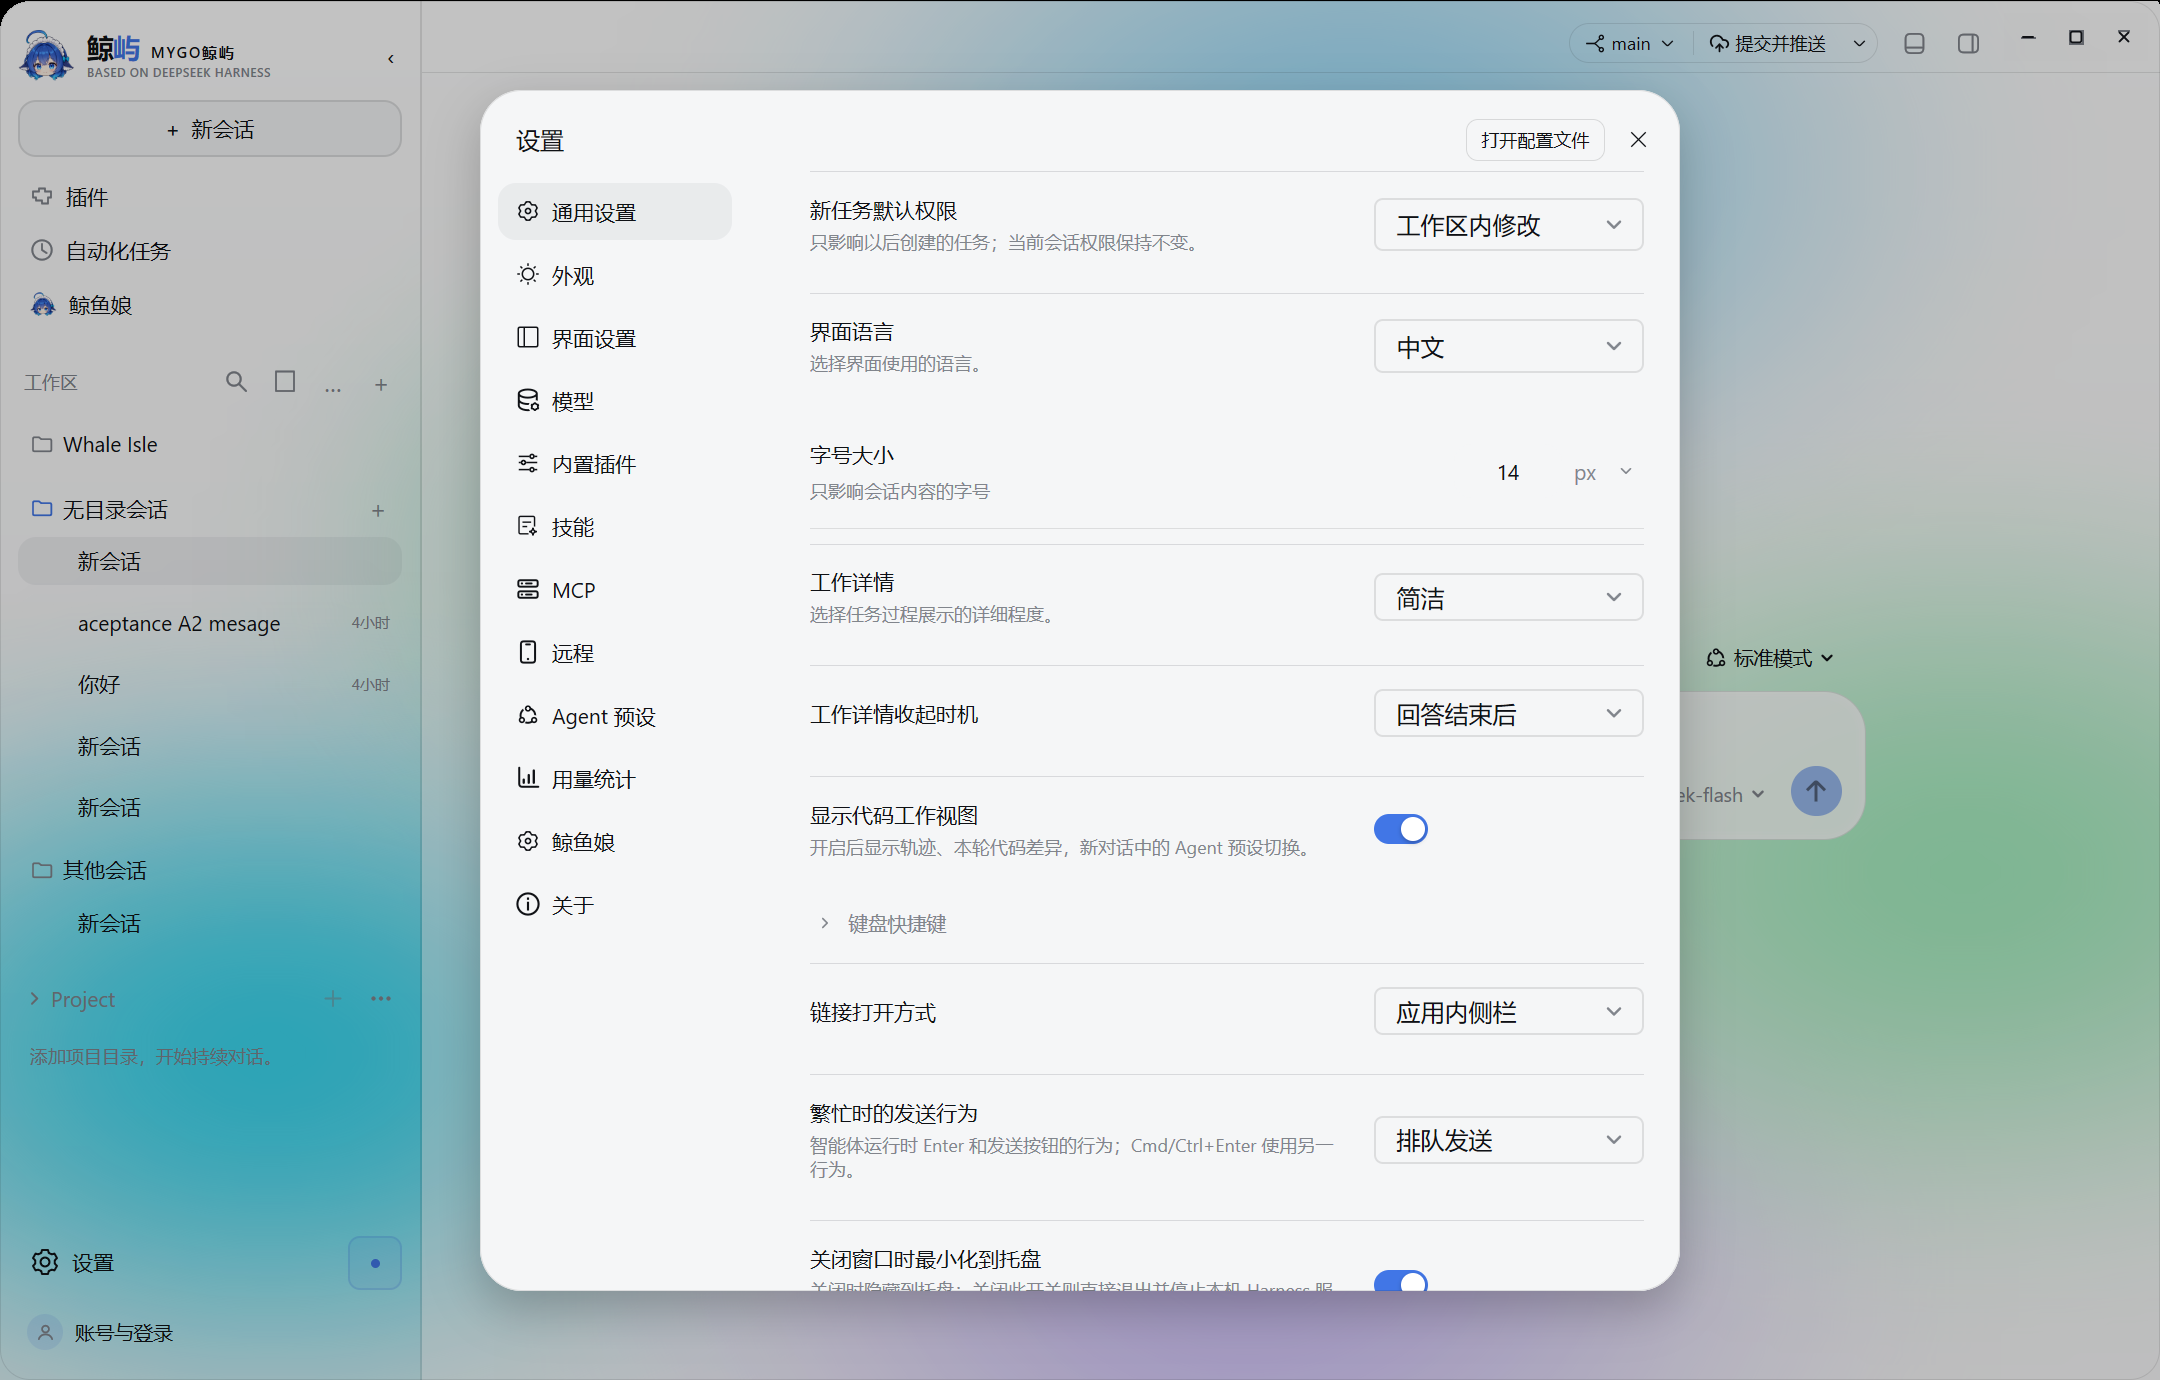
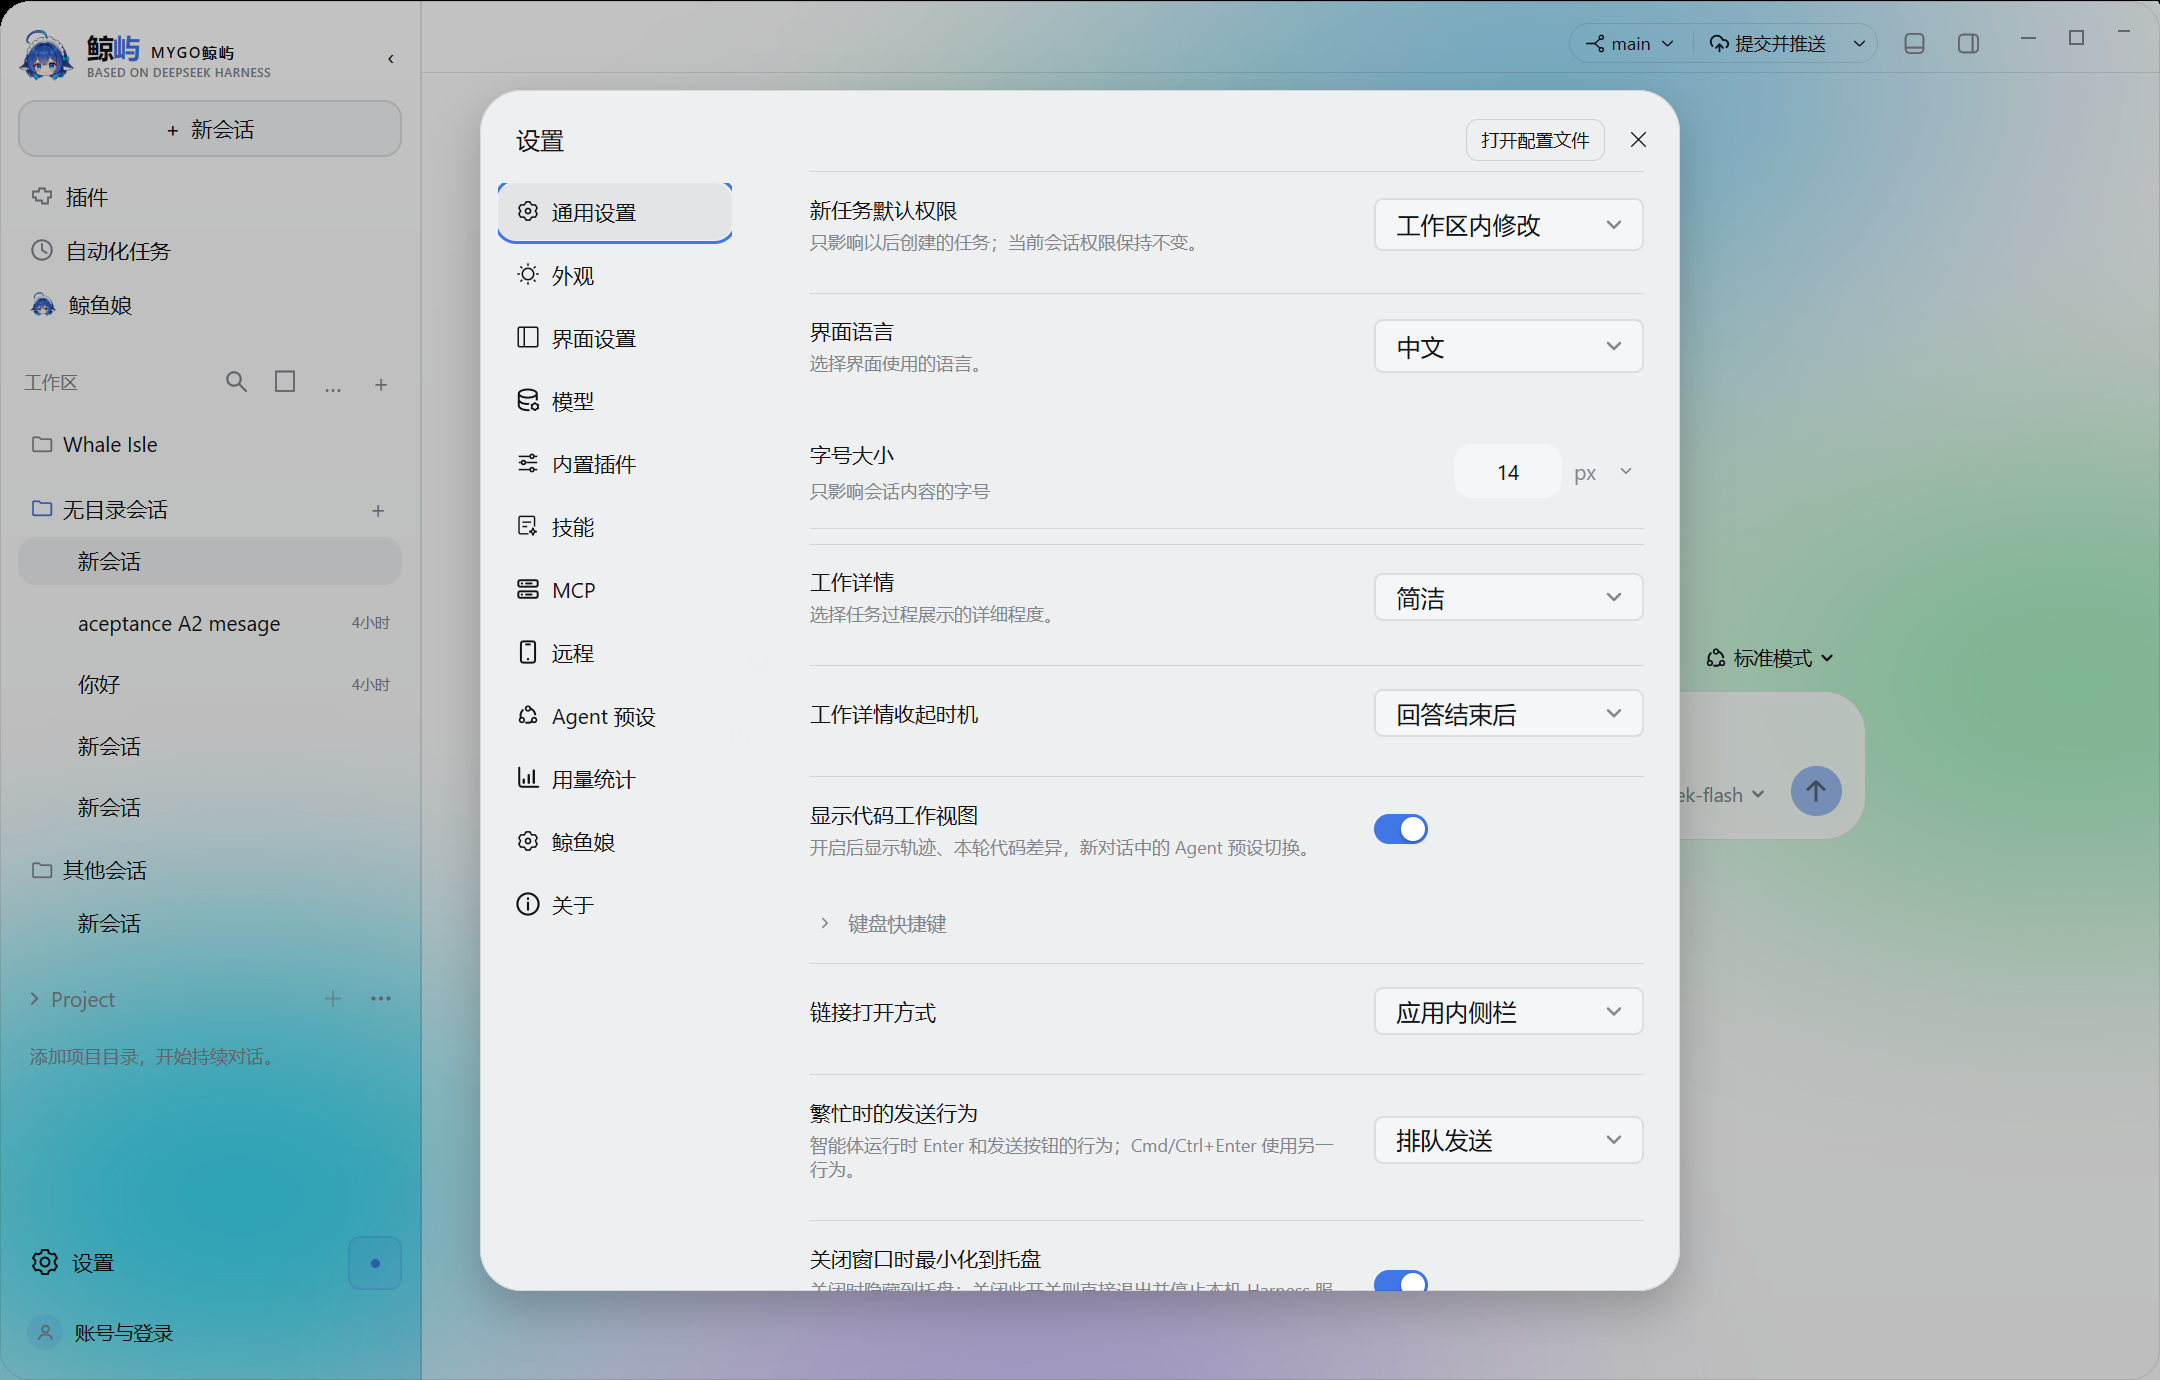
fix: tune the settings surface to the reference panel tone
Field alone measured 245 while the reference panel is 235-240; mixing 3% of the
theme border lands the live panel at 238-240 (mean 234 vs 229.6) without
transparency leaking the chat behind the dialog. Visual notes updated with the
measured numbers.

diff --git a/internal/ui/settings/settings.go b/internal/ui/settings/settings.go
@@ -90,7 +90,7 @@ func View(c *ui.Context, m Model) {
 	}
 	th := theme.Resolve(m.ThemeID)
 	colors := th.Active(m.SystemDark)
-	bg := chrome.Color(colors.Field)
+	bg := chrome.Color(colors.Field).Mix(chrome.Color(colors.Border), 0.03)
 	border := chrome.Color(colors.Border)
 	fg := chrome.Color(colors.FG)
 	muted := chrome.Color(colors.Muted)

diff --git a/docs/review-20261020/acceptance-matrix.md b/docs/review-20261020/acceptance-matrix.md
@@ -176,3 +176,5 @@ settings.ModalView → SectionContent → paintMainContent("")
 - 通用设置实机复验（pass28）：权限「工作区内修改」、语言「中文」、工作详情「简洁」、收起时机「回答结束后」、链接「应用内侧栏」、繁忙发送「排队发送」均显示本地化文案；账号/高级移动到页尾，主行顺序与参考一致。截图 settings-live/general.png。
 
 - 设置面板底色（S1）改善（pass30）：内容区/导航原来用 BG 纯白（实测 255,255,255），改为 raised surface Field（实测 245,246,247，参考 235-240），不再整块纯白，也未采用透明导致内容穿透。截图 settings-live/general.png 已更新。
+
+- S1 面板底色 pass32：Field 叠 3% border，实机 238-240（参考 235-240），平均 234 vs 229.6；纯白问题消除。

diff --git a/docs/review-20261020/visual-acceptance.md b/docs/review-20261020/visual-acceptance.md
@@ -153,3 +153,5 @@ go test ./internal/ui/chrome ./internal/ui/theme ./internal/ui/frame
 > 后续修复（pass21）：6.3 的 S6 appearance 主题网格溢出已修——卡片 .FillWidth() 在 Grid 单元格里按整行宽度布局，导致第二列重叠/第三列被裁切；移除后两列各占一半，新增几何测试。实机截图 evidence/acceptance/settings-live/appearance.png 已更新。
 
 > 后续（pass30）：S1 面板不再纯白——内容/导航底从 BG 改为 raised surface Field，面板平均 240.6（参考 229.6），单点 245 vs 参考 235-240；未改为透明（透明会让聊天内容穿透）。
+
+> 后续（pass32）：S1 面板底 Field 再叠 3% border 后，实机单点 238/239/240（参考 235/237/238），面板平均 234.0/235.2/236.4（参考 229.6/232.6/232.7）；纯白 255 问题已消除。
